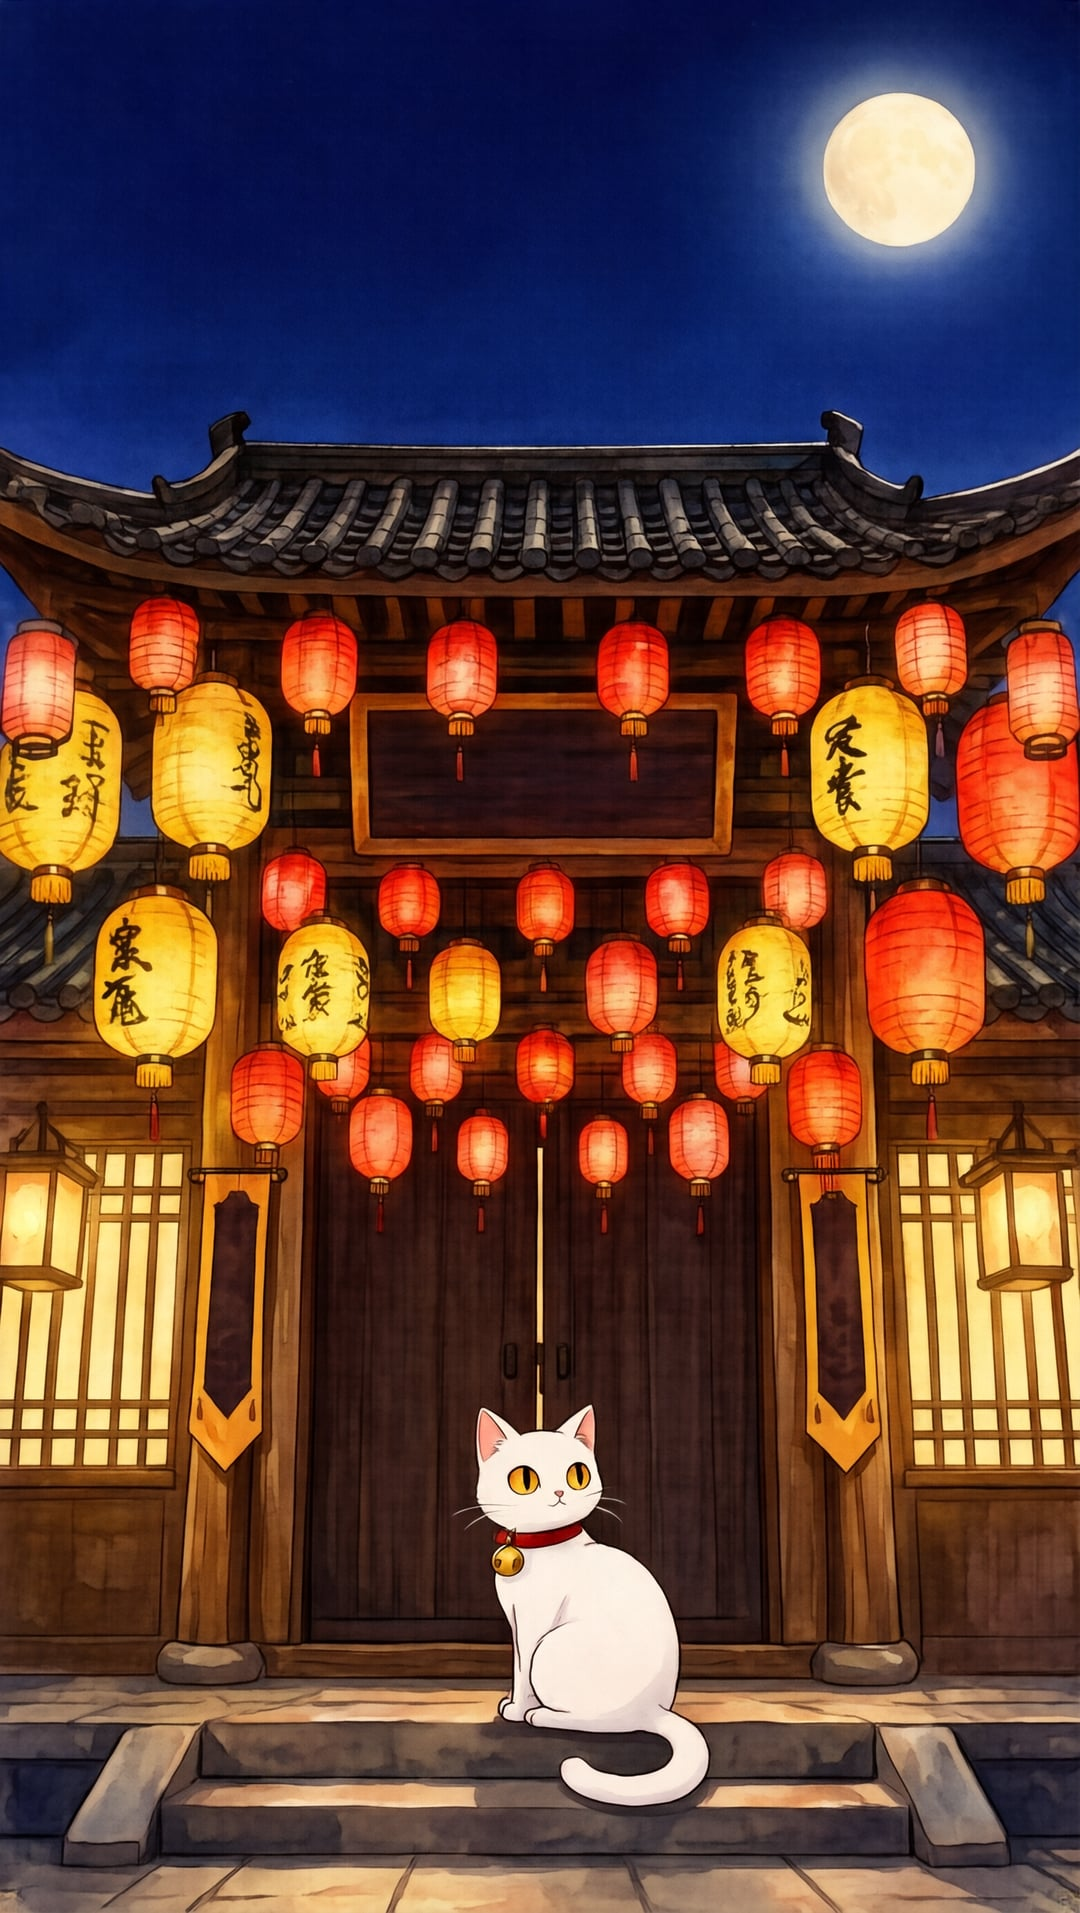
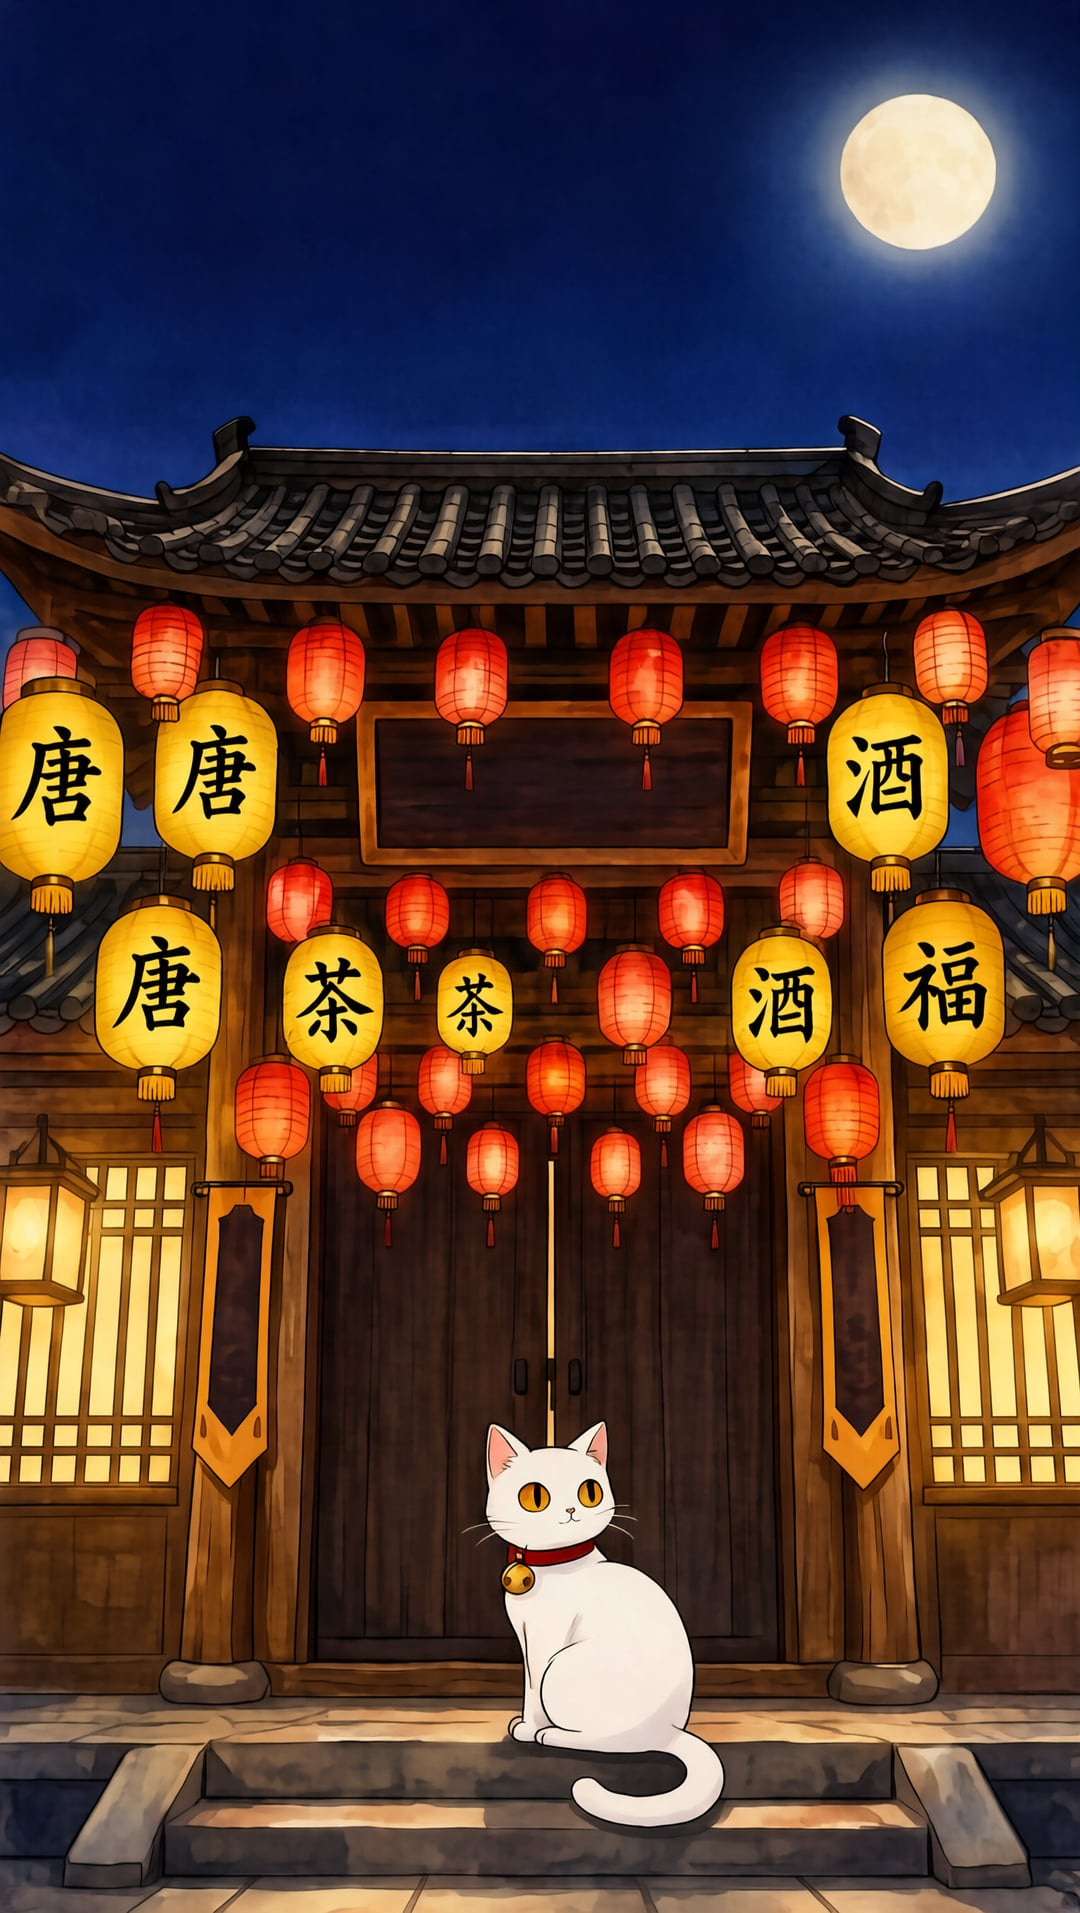
庭院的门: 灯笼伪书法换真实单字(唐/茶/酒/福楷书),版本251026b

diff --git a/galgame/js/engine.js b/galgame/js/engine.js
@@ -49,7 +49,7 @@
       $("#sprites").appendChild(el);
     }
     if (who === "catgirl") el.innerHTML = ART.catGirl(expr || "normal");
-    else el.innerHTML = '<img class="chara-img" src="images/cat_mascot.webp?v=251026a" alt="唐猫（白猫）" draggable="false">';
+    else el.innerHTML = '<img class="chara-img" src="images/cat_mascot.webp?v=251026b" alt="唐猫（白猫）" draggable="false">';
     el.style.width = "clamp(220px, 60vmin, 400px)";
     requestAnimationFrame(() => { el.className = "sprite pos-" + (pos || "center") + " breathe"; });
   }
@@ -491,8 +491,8 @@
   };
   function galGrid(items) {
     return '<div class="gal-grid">' + items.map(g =>
-      '<figure class="gal-item" data-src="' + g.src + '?v=251026a" data-cap="' + g.cap + '">' +
-      '<img src="' + g.src + '?v=251026a" alt="" loading="lazy"><figcaption>' + g.cap + '</figcaption></figure>'
+      '<figure class="gal-item" data-src="' + g.src + '?v=251026b" data-cap="' + g.cap + '">' +
+      '<img src="' + g.src + '?v=251026b" alt="" loading="lazy"><figcaption>' + g.cap + '</figcaption></figure>'
     ).join("") + '</div>';
   }
   function showGallery() {
@@ -602,7 +602,7 @@
 
   /* ---------- 启动 ---------- */
   function boot() {
-    window.__GALGAME_VER = "251026a";
+    window.__GALGAME_VER = "251026b";
     $("#title-bg").innerHTML = ART.titleBg();
     bind();
     refreshTitle();

diff --git a/galgame/index.html b/galgame/index.html
@@ -5,7 +5,7 @@
 <meta name="viewport" content="width=device-width, initial-scale=1.0, viewport-fit=cover">
 <title>唐猫庭院 · 千年陕菜谭</title>
 <meta name="description" content="唐猫庭院 galgame —— 一段发生在千年陕菜庭院里的小小奇遇。为唐猫庭院餐厅与其点餐推荐系统而作的宣传视觉小说。">
-<link rel="stylesheet" href="style.css?v=251026a">
+<link rel="stylesheet" href="style.css?v=251026b">
 </head>
 <body>
 <div id="app">
@@ -67,15 +67,15 @@
   </div>
 </div>
 
-<script src="js/art.js?v=251026a"></script>
-<script src="js/audio.js?v=251026a"></script>
-<script src="js/story.js?v=251026a"></script>
-<script src="js/engine.js?v=251026a"></script>
+<script src="js/art.js?v=251026b"></script>
+<script src="js/audio.js?v=251026b"></script>
+<script src="js/story.js?v=251026b"></script>
+<script src="js/engine.js?v=251026b"></script>
 <script>
 /* 缓存自愈：若检测到旧版 engine（无版本标记）在跑，绕过缓存自动强刷一次（sessionStorage 防循环） */
 (function () {
   setTimeout(function () {
-    if (window.__GALGAME_VER === "251026a") return;
+    if (window.__GALGAME_VER === "251026b") return;
     try {
       if (sessionStorage.getItem("_gv_healed")) return;
       sessionStorage.setItem("_gv_healed", "1");

diff --git a/galgame/js/art.js b/galgame/js/art.js
@@ -91,7 +91,7 @@ const ART = (() => {
   };
   function catGirl(exprKey) {
     const img = CHARA_MAP[exprKey] || "smile";
-    return '<img class="chara-img" src="images/chara_' + img + '.webp?v=251026a" alt="唐猫" draggable="false">';
+    return '<img class="chara-img" src="images/chara_' + img + '.webp?v=251026b" alt="唐猫" draggable="false">';
   }
   /* 预加载全部差分，避免表情切换时闪白 */
   ["smile","normal","happy","excited","wink","shy","surprised","soft","sleepy","serious","smug","pout","sad","worried","cry"].forEach(n => {
@@ -189,7 +189,7 @@ const ART = (() => {
   /* ================= 场景背景（AI 厚涂竖版图包装为 svg，900x1600 与 9:16 生成图精确匹配） ================= */
   function photoBg(src, extra) {
     return '<svg viewBox="0 0 900 1600" preserveAspectRatio="xMidYMid slice" xmlns="http://www.w3.org/2000/svg">' +
-      '<image href="images/' + src + '?v=251026a" width="900" height="1600"/>' + (extra || "") +
+      '<image href="images/' + src + '?v=251026b" width="900" height="1600"/>' + (extra || "") +
       '</svg>';
   }
 

diff --git a/galgame/js/story.js b/galgame/js/story.js
@@ -134,7 +134,7 @@ function profileHtml(spice) {
 function promoHtml() {
   return (
     '<div style="display:flex;gap:12px;align-items:center;margin:2px 0 10px">' +
-    '<img src="images/chara_smile.webp?v=251026a" alt="唐猫" style="width:74px;height:74px;object-fit:cover;object-position:top;border-radius:50%;border:2px solid rgba(217,178,106,.5);flex:none">' +
+    '<img src="images/chara_smile.webp?v=251026b" alt="唐猫" style="width:74px;height:74px;object-fit:cover;object-position:top;border-radius:50%;border:2px solid rgba(217,178,106,.5);flex:none">' +
     '<div style="flex:1;background:rgba(217,178,106,.10);border:1px solid rgba(217,178,106,.35);border-radius:12px;padding:10px 12px;line-height:1.7">「客人要走了吗……走之前，本喵再啰嗦几句。这家店你逛了一晚上，但有几件事，得本喵亲口说才算数。」</div>' +
     '</div>' +
     '<h3>🏮 这家店</h3>' +
